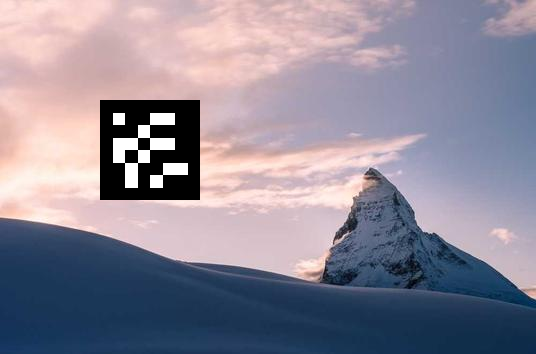
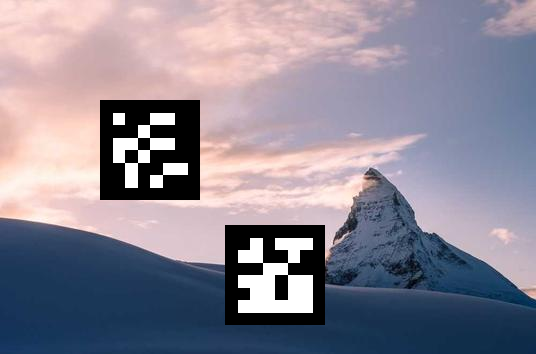
normal update

Changed region(s): [[0.4179, 0.6215, 0.6269, 0.9322]]

diff --git a/findHomography.py b/findHomography.py
@@ -1,0 +1,53 @@
+import cv2
+import numpy as np
+
+# Load the images
+img1 = cv2.imread("reference.png")
+img2 = cv2.imread("shifted.png")
+
+if img1 is None or img2 is None:
+    print("One or both images could not be loaded. Check the file paths.")
+else:
+    gray1 = cv2.cvtColor(img1, cv2.COLOR_BGR2GRAY)
+    gray2 = cv2.cvtColor(img2, cv2.COLOR_BGR2GRAY)
+
+    # Define the dictionary and parameters for ArUco detection
+    aruco_dict = cv2.aruco.getPredefinedDictionary(cv2.aruco.DICT_6X6_250)
+    parameters = cv2.aruco.DetectorParameters()
+    parameters.adaptiveThreshConstant = 7  # Adjust as needed
+
+    # Create the ArUco detector
+    detector = cv2.aruco.ArucoDetector(aruco_dict, parameters)
+
+    # Detect the markers in both images
+    corners1, ids1, _ = detector.detectMarkers(gray1)
+    corners2, ids2, _ = detector.detectMarkers(gray2)
+    if ids1 is not None and ids2 is not None:
+        # Find common markers between the images
+        common_ids = np.intersect1d(ids1.flatten(), ids2.flatten())
+        # print(common_ids)
+        if len(common_ids) >= 2:  # Ensure at least 2 common markers
+            src_pts = []
+            dst_pts = []
+            
+            for marker_id in common_ids:
+                # Find the marker index in both images
+                idx1 = np.where(ids1.flatten() == marker_id)[0][0]
+                idx2 = np.where(ids2.flatten() == marker_id)[0][0]
+                
+                # Add marker corners to the points lists for homography calculation
+                src_pts.extend(corners1[idx1][0])  # Points in image1
+                dst_pts.extend(corners2[idx2][0])  # Points in image2
+
+            # Convert points to numpy arrays
+            src_pts = np.array(src_pts)
+            dst_pts = np.array(dst_pts)
+            
+            # Compute the homography matrix
+            H, _ = cv2.findHomography(src_pts, dst_pts, cv2.RANSAC)
+            
+            print("Homography matrix:\n", H)
+        else:
+            print("Not enough common markers detected to compute homography.")
+    else:
+        print("Markers not detected in one or both images.")

diff --git a/embedder.py b/embedder.py
@@ -3,15 +3,25 @@ import sys
 import numpy as np
 
 backgroundImg = cv.imread("background.png")
-markerImg = cv.imread("marker_50.png")
+markerImg1 = cv.imread("marker_50.png")
+markerImg2=cv.imread("marker_100.png")
 
-x,y=200,100
+x1 = int(input("First marker top left corner (x): "))
+y1 = int(input("First marker top left corner (y): "))
+x2 = int(input("Second marker top left corner (x): "))
+y2 = int(input("Second marker top left corner (y): "))
 
-roi = backgroundImg[y:y+markerImg.shape[0], x:x+markerImg.shape[1]]
 
-overlay_alpha = np.ones(markerImg.shape[:2], dtype=np.float32)
 
-roi[:] = markerImg * overlay_alpha[:, :, np.newaxis] + roi * (1 - overlay_alpha[:, :, np.newaxis])
+roi_1 = backgroundImg[y1:y1+markerImg1.shape[0], x1:x1+markerImg1.shape[1]]
+roi_2 = backgroundImg[y2:y2+markerImg2.shape[0], x2:x2+markerImg1.shape[1]]
+
+overlay_alpha_1 = np.ones(markerImg1.shape[:2], dtype=np.float32)
+overlay_alpha_2 = np.ones(markerImg2.shape[:2], dtype=np.float32)
+
+
+roi_1[:] = markerImg1 * overlay_alpha_1[:, :, np.newaxis] + roi_1 * (1 - overlay_alpha_1[:, :, np.newaxis])
+roi_2[:] = markerImg2 * overlay_alpha_2[:, :, np.newaxis] + roi_2 * (1 - overlay_alpha_2[:, :, np.newaxis])
 
 cv.imwrite("shifted.png", backgroundImg)
 cv.imshow("Result", backgroundImg)

diff --git a/marker.py b/marker.py
@@ -4,11 +4,14 @@ import matplotlib.pyplot as plt
 
 aruco_dict = cv2.aruco.getPredefinedDictionary(cv2.aruco.DICT_6X6_250)
 
-marker_id = 50
+marker_id_1 = 50
+marker_id_2 = 100
 marker_size = 100  
-marker_image = cv2.aruco.generateImageMarker(aruco_dict, marker_id, marker_size)
+marker_image_1 = cv2.aruco.generateImageMarker(aruco_dict, marker_id_1, marker_size)
+marker_image_2=cv2.aruco.generateImageMarker(aruco_dict,marker_id_2,marker_size)
 
-cv2.imwrite('marker_'+str(marker_id)+'.png', marker_image)
+cv2.imwrite('marker_'+str(marker_id_1)+'.png', marker_image_1)
+cv2.imwrite('marker_'+str(marker_id_2)+'.png', marker_image_2)
 # plt.imshow(marker_image, cmap='gray', interpolation='nearest')
 # plt.axis('off')  # Hide axes
 # plt.title(f'ArUco Marker {marker_id}')

diff --git a/testHomography.py b/testHomography.py
@@ -1,0 +1,22 @@
+import cv2
+import numpy as np
+
+img1 = cv2.imread("reference.png")
+img2 = cv2.imread("shifted.png")
+H = np.array([[ 1.00000000e+00, -5.59912153e-16,  2.50000000e+01],
+ [ 3.10698123e-16,  1.00000000e+00,  2.50000000e+01],
+ [ 1.18731603e-18, -1.55922808e-18,  1.00000000e+00]])
+# Assume H is your computed homography matrix
+height, width = img1.shape[:2]
+
+# Warp img2 to the perspective of img1
+try:
+    warped_img2 = cv2.warpPerspective(img2, H, (width*2, height*2))
+except Exception as e:
+    print("Error during warping:", e)
+# Display the result
+cv2.imshow("Warped Image", warped_img2)
+cv2.imwrite("TestingWarped.png",warped_img2)
+cv2.imshow("Reference Image", img1)
+cv2.waitKey(0)
+cv2.destroyAllWindows()
